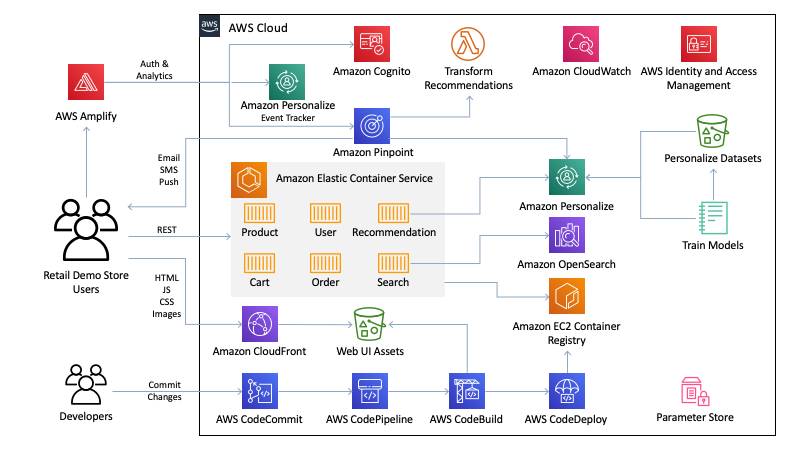
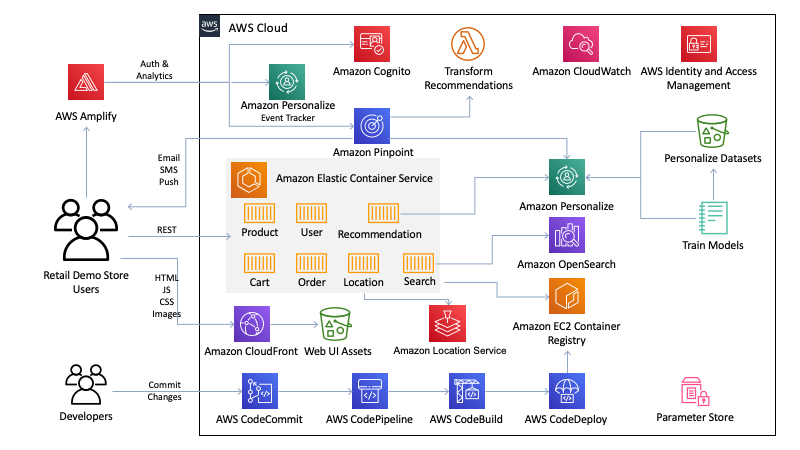
Documentation update (#563)
* add Amazon Location on architecture diagram
* deployment doc changes
* region supported

Changed region(s): [[0.25, 0.5289, 0.625, 0.8089], [0.3438, 0.4356, 0.5625, 0.5289], [0.5938, 0.4044, 0.625, 0.4667]]

diff --git a/README.md b/README.md
@@ -3,7 +3,17 @@
 
 A sample retail web application and workshop platform intended as an educational tool for demonstrating how AWS infrastructure and services can be used to build compelling customer experiences for eCommerce, retail, and digital marketing use-cases.
 
-# Build Status
+> [!NOTE]
+> Jump directly to a section of the documentation:
+> 
+> * [How to deploy an instance in your account ](#Deployment)
+> * [Hands-on Workshops](#hands-on-workshops)
+> * [Partner Integrations](#partner-integrations)
+> * [Delivering a Demo of the Retail Demo Store ](#delivering-a-demo-of-the-retail-demo-store)
+> * [Troubleshooting - FAQs](#troubleshooting---faqs)
+
+
+## Build Status
 
 ![Ruff](https://github.com/aws-samples/retail-demo-store/actions/workflows/ruff.yml/badge.svg?branch=master)
 ![UI Build](https://github.com/aws-samples/retail-demo-store/actions/workflows/build-ui.yml/badge.svg?branch=master)
@@ -19,6 +29,34 @@ At the heart of the Retail Demo Store is a collection of polyglot microservices 
 The architecture is supported by several managed services including [Amazon Cognito](https://aws.amazon.com/cognito/), [Amazon Pinpoint](https://aws.amazon.com/pinpoint/), [Amazon Personalize](https://aws.amazon.com/personalize/), and [Amazon OpenSearch Service](https://aws.amazon.com/opensearch-service/) (successor to Amazon Elasticsearch Service). The [web user interface](../src/web-ui]) is built using the [Vue.js](https://vuejs.org/) framework with [AWS Amplify](https://aws.amazon.com/amplify/) to provide integrations with Cognito for registration/authentication and event streaming to Pinpoint and Personalize (Event Tracker). Finally, [AWS CodePipeline](https://aws.amazon.com/codepipeline/) is leveraged to demonstrate how AWS development services can be used to orchestrate the build and deployment process with the Retail Demo Store.
 
 ![Retail Demo Store Architecture](./workshop/images/retaildemostore-architecture.png)
+
+## Deployment
+
+> [!NOTE]  
+> To deploy to your own AWS account please follow the [Deployment Instructions](./Deployment-Instructions.md) that will explain how to easily get started by staging the retail demo store to your own AWS account.
+
+> [!WARNING]  
+> Deploying this demo application in your AWS account will create and consume AWS resources, which will cost money. In addition, some features such as account registration via Amazon Cognito and the messaging workshop for Amazon Pinpoint require users to provide a valid email address and optionally a phone number to demonstrate completely. Therefore, to avoid ongoing charges and to clean up all data, be sure to follow all workshop clean up instructions and shutdown/remove all resources by deleting the CloudFormation stack once you are finished.
+
+> [!IMPORTANT]  
+> The Retail Demo Store experience is for demonstration purposes only. You must comply with all applicable laws and regulations, including any laws and regulations related to email or text marketing, in any applicable country or region.
+
+
+## Supported Regions
+
+The Retail Demo Store has been tested in the AWS regions indicated in the deployment instructions below. 
+
+
+| Region | Supported |
+| ------------- | ------------- |
+| us-east-1 | fully-supported | 
+| us-west-2 | fully-supported |  
+| ap-northeast-1 | fully-supported | 
+| ap-southeast-2 | fully-supported | 
+
+
+> [Note]
+> Additional regions may be supported depending on [service availability](https://aws.amazon.com/about-aws/global-infrastructure/regional-product-services/) and having the Retail Demo Store's deployment resources staged to an S3 bucket in the targeted region.
 
 ## Hands-On Workshops
 
@@ -49,49 +87,33 @@ AWS Partner | Workshops Overview | Workshop Links | Level | Duration
 <img src="./workshop/images/segment.svg"/> | [Segment](https://segment.com/) is a real-time events pipeline for customer data, as well as a customer data platform.  In the Retail Demo Store, Segment is used to deliver real-time events from the web user interface to Amazon Personalize.  These real-time events are also used to create customer profile with Amazon Personalize recommendations appended, which can then be used via the CDP to push data to marketing tools. | [Real Time Personalization Events](./workshop/1-Personalization/Lab-05-(Optional)-Real-time-events-Segment.ipynb) <br/><br/> [Customer Data Platforms and Personalize](./workshop/6-CustomerDataPlatforms/6.1-Segment.ipynb) | 300 | 1-1.5 hours
 <img src="./workshop/images/Layer0.svg"/> | [Layer0](https://layer0.co/) extends the capabilities of a traditional CDN by not only hosting your static content, but also providing server-side rendering for progressive web applications. Layer0 allows caching both your APIs and HTML at the network edge to provide your users with the fastest browsing experience. Teams can ship faster leveraging an enhanced developer experience to deploy code faster and with more frequency, view their code quickly in atomically deployed environments, and integrating their CDN configuration to the overall build process. Layer0 provides the tools needed to build the modern apps capable of providing the performance expected by modern consumers.  | [Edge Optimization](./workshop/8-PerformanceOptimization/8.1-Layer0.ipynb) | 200 | 1 hour
 
-## Supported Regions
 
-The Retail Demo Store has been tested in the AWS regions indicated in the deployment instructions below. Additional regions may be supported depending on [service availability](https://aws.amazon.com/about-aws/global-infrastructure/regional-product-services/) and having the Retail Demo Store's deployment resources staged to an S3 bucket in the targeted region.
+## Notes:
 
-# Getting Started
-
-***IMPORTANT NOTE:** Deploying this demo application in your AWS account will create and consume AWS resources, which will cost money. In addition, some features such as account registration via Amazon Cognito and the messaging workshop for Amazon Pinpoint require users to provide a valid email address and optionally a phone number to demonstrate completely. Therefore, to avoid ongoing charges and to clean up all data, be sure to follow all workshop clean up instructions and shutdown/remove all resources by deleting the CloudFormation stack once you are finished.*
-
-**The Retail Demo Store experience is for demonstration purposes only. You must comply with all applicable laws and regulations, including any laws and regulations related to email or text marketing, in any applicable country or region.**
-
-> [!NOTE]
-> If you are attending an AWS-led event where temporary AWS accounts are provided, this has likely already been done for you. Check with your event administrators.
-
-> [!IMPORTANT]
-> To deploy to your own AWS account please follow the [Developer Instructions](./Developer-Instructions.md)
-
-
-### Notes:
-
-#### Amazon Personalize Campaigns
+### Amazon Personalize Campaigns
 
 If you chose to have the Amazon Personalize campaigns automatically built post-deployment, this process will take an additional 2-2.5 hours. This process happens in the background so you don't have to wait for it to complete before exploring the Retail Demo Store application and architecture. Once the Personalize campaigns are created, they will be automatically activated in the [Web UI](src/web-ui) and [Recommendations](src/recommendations) service. You can monitor the progress in CloudWatch under the `/aws/lambda/RetailDemoStorePersonalizePreCreateCampaigns` log group.
 
-#### Amazon Pinpoint Campaigns
+### Amazon Pinpoint Campaigns
 If you chose to have the Amazon Pinpoint campaigns automatically built (‘Auto-Configure Pinpoint’ is set to ‘Yes’ in the CloudFormation template), this process will take an additional 20-30 minutes.
 Once the Pinpoint campaigns are created, they will be automatically visbile in the [Web UI](src/web-ui). However, there are some manual steps described below that are required for enabling the Pinpoint channels.
 
-##### Pinpoint Emails:
+#### Pinpoint Emails:
 
 *PinpointEmailFromAddress:*
 By Default, AWS Accounts have  [emails set up in a sandbox environement](https://docs.aws.amazon.com/pinpoint/latest/userguide/channels-email.html). To enable the functionality, you need to complete either of the following manual steps.
 * Verifying the email addresses you want to send and receive emails from. More info [here](https://docs.aws.amazon.com/pinpoint/latest/userguide/channels-email-manage-verify.html). This is the easiest and recommended approach for demos and workshops.
 * Request to be removed from the sandbox environment. More info [here](https://docs.aws.amazon.com/pinpoint/latest/userguide/channels-email-setup-production-access.html). This is recommended only for production workloads and the Retail Demo Store is intended to be used for demonstration purposes only.
 
-##### Pinpoint SMS
+#### Pinpoint SMS
 *PinpointSMSLongCode:*
 A dedicated [long code](https://docs.aws.amazon.com/pinpoint/latest/userguide/channels-sms-awssupport-long-code.html) (i.e. a phone number) obtained for Amazon Pinpoint to send and receive messages at. You also need to enable [two way SMS](https://docs.aws.amazon.com/pinpoint/latest/userguide/channels-sms-two-way.html) for this long code using Pinpoint. Follow steps 2 and 3 in the *Enable Pinpoint SMS Channel & Obtain Dedicated Long Code* section of the [Pinpoint workshop](https://github.com/aws-samples/retail-demo-store/blob/master/workshop/4-Messaging/4.1-Pinpoint.ipynb) to get a long code and enable two way SMS for it.
 When deploying Retail Demo Store, enter the number as a parameter. The number should be formatted along with the country code and without any spaces or brackets. For Example: enter “+1XXXXXXXXXX” for a long code based in the United States.
 
-##### Amazon Bedrock Demos
+#### Amazon Bedrock Demos
 Amazon Bedrock users need to request access to models before they are available for use. To demo Personalised Product Descriptions make sure to enable access to Anthropic's Claude v2 via the Amazon Bedrock Management Console. Instructions on enabling model access can be found [here](https://docs.aws.amazon.com/bedrock/latest/userguide/model-access.html). Amazon Bedrock is currently available in 5 regions globally, US East (N. Virginia), US West (Oregon), Asia Pacific (Tokyo), Europe (Frankfurt) and Asia Pacific (Singapore).
 
-## Step 4 - Using the Retail Demo Store Web Application
+## Using the Retail Demo Store Web Application
 
 Once you launch the CloudFormation stack, all of the services will go through a build and deployment cycle and deploy the Retail Demo Store.
 
@@ -115,7 +137,7 @@ Here you will find several workshops in a directory structure in the notebook in
 
 # Developer Instructions
 
-If you're interested in contributing enhancements, features, or fixes to the Retail Demo Store, please see the [Developer Instructions](./Developer-Instructions.md) for details on how to setup your local environment and deployment environment.
+If you're interested in contributing enhancements, features, or fixes to the Retail Demo Store, please see the [Deployment Instructions](./Deployment-Instructions.md) for details on how to setup your local environment and deployment environment.
 
 # Delivering a Demo of the Retail Demo Store
 
@@ -134,7 +156,7 @@ The intent of the Retail Demo Store is to 1) provide a tool to demonstrate the c
 * Currently only tested in the AWS regions provided in the deployment instructions above. The only limitation for deploying into other regions is [availability of all required services](https://aws.amazon.com/about-aws/global-infrastructure/regional-product-services/).
     - Amazon IVS is currently only supported in the N. Virginia (us-east-1), Oregon (us-west-2), and Ireland (eu-west-1) regions. Therefore, to deploy the Retail Demo Store in a region that does not support IVS, be sure to select to use the Default IVS Streams CloudFormation template parameter.
 
-# Troubleshooting / FAQs
+# Troubleshooting - FAQs
 
 ***Q: When accessing the Retail Demo Store web application after deploying the project, a CloudFront error is displayed. What's wrong?***
 
@@ -147,6 +169,7 @@ The intent of the Retail Demo Store is to 1) provide a tool to demonstrate the c
 ***Q: This project is expensive to run (or keep running). How can I reduce the running cost of a deployment?***
 
 ***A:*** The most costly service in the project for an idle deployment is Amazon Personalize. You can eliminate Personalize idle costs by stopping all Amazon Personalize recommenders and deleting all campaigns in the Retail Demo Store dataset group for Personalize. This just shuts down the real-time inference endpoints; the datasets and ML models will remain. You should also change all of the recommender and campaign ARN parameter values in the AWS Systems Manager Parameter Store to `NONE`, leaving the parameter values for filters and the event tracker alone. These parameter names start with `/retaildemostore/personalize/` (e.g., `/retaildemostore/personalize/recommended-for-you-arn`). Once you complete these steps, the storefront will fall back to default behavior for recommending products from the catalog. To reactive Personalize, start the recommenders and create campaigns and then set the recommender and/or campaign ARNs back in the Systems Manager Parameter Store. The storefront will automatically start showing recommendations from Personalize again.
+
 # Reporting Bugs
 
 If you encounter a bug, please create a new issue with as much detail as possible and steps for reproducing the bug. See the [Contributing Guidelines](./CONTRIBUTING.md) for more details.

diff --git a/Deployment-Instructions.md b/Deployment-Instructions.md
@@ -1,0 +1,102 @@
+# Deployment Instructions
+
+These instructions are valid whenever you just want to demo the Retail Demo Store or if you would like to contribute enhancements or features to the Retail Demo Store, please read on for instructions on how to develop and test your changes. Thanks for considering working with this project.
+
+## Step 1: Fork this Repo
+
+We highly recommend to create a fork of the Retail Demo Store respository in your own GitHub account. That enables you to customize the code before deployment.
+
+## Step 2: Create a GitHub Personal Access Token
+
+Create a [GitHub Personal Access Token](https://help.github.com/en/articles/creating-a-personal-access-token-for-the-command-line) in your GitHub account.
+
+Make sure that your token has the "repo", "repo:status", and "admin:repo_hook" permission scopes.
+
+Save your access token in a secure location, you will use it the CloudFormation parameters at deployment time.
+
+## Step 3: Create a S3 Staging Bucket
+
+We recommend to create a dedicated bucket for deployment.
+
+### Bucket Region
+
+Your staging bucket must be in the region in which you plan to deploy the Retail Demo Store.
+
+### Bucket Permissions
+
+The default stage script requires the ability to set the resources it uploads to your bucket as public read.  Note that you do not need to set the bucket up to allow public listing of the resources in the bucket (this is not recommended).
+
+If you plan to enable the automated Personalize campaign creation process at deployment time, you must allow access for Amazon Personalize to your bucket. Add the following bucket policy to your staging bucket.
+
+```json
+{
+    "Version": "2012-10-17",
+    "Id": "PersonalizeS3BucketAccessPolicy",
+    "Statement": [
+        {
+            "Sid": "PersonalizeS3BucketAccessPolicy",
+            "Effect": "Allow",
+            "Principal": {
+                "Service": "personalize.amazonaws.com"
+            },
+            "Action": [
+                "s3:GetObject",
+                "s3:ListBucket"
+            ],
+            "Resource": [
+                "arn:aws:s3:::<your bucket name>",
+                "arn:aws:s3:::<your bucket name>/*"
+            ]
+        }
+    ]
+}
+```
+
+## Step 4: Staging for Deployment
+
+We recommend to use a Python 3 virtual environment. Current supported version of python is 3.12 (other versions may work but we haven't tested all versions)
+
+```bash
+python3.12 -m venv .venv/
+source .venv/bin/activate
+```
+
+The [stage.sh](stage.sh) script at the root of the repository must be used to upload the deployment resources to your staging S3 bucket if you use this option. The shell uses the local AWS credentials to build and push resources to your custom bucket. 
+
+Example on how to stage your project to a custom bucket and path (note the path is optional but, if specified, must end with '/'):
+
+```bash
+./stage.sh MY_CUSTOM_BUCKET S3_PATH/ --skip-virtualenv
+```
+
+## Step 5: Deploy the Cloudformation template
+
+The stage script will output a path to your master deployment CloudFormation template.  You can use this link to your S3 bucket to start a new deployment via the CloudFormation console in your AWS Console. Please read and complete any required parameters. The mandatory parameters to fill up are:
+
+* ResourceBucket
+* ResourceBucketRelativePath
+* CreateOpenSearchServiceLinkedRole
+
+All the others will work by default, take the time to read and decide which parameters you want to use
+
+> [!NOTE] 
+> You can also use the command line below.  (replace REGION, MY_CUSTOM_BUCKET and S3_PATH value)
+> 
+> ```bash
+> ./scripts/deploy-cloudformation-stacks.sh DEPLOYMENT_S3_BUCKET REGION STACK_NAME
+> ```
+
+## (optional) Developing Services Locally
+
+The Retail Demo Store also supports running the web user interface and backend services in a local container on your machine.  This may be a handy option while testing a fix or enhancement.
+
+[Detailed instructions](./src) are available on how to get going with local development.  Note that you will still need to set up one of the development options described above, and have a working deployment in your AWS account as some of the services will need to access cloud-based services as part of deployment.
+
+## (optional) Integration tests
+
+Integration tests can be run on either
+
+1. Local development (via Docker Compose)
+2. Actual (deployed) AWS environment
+
+You can find more information about the running the integration tests in `src/run-tests/README.md`.
